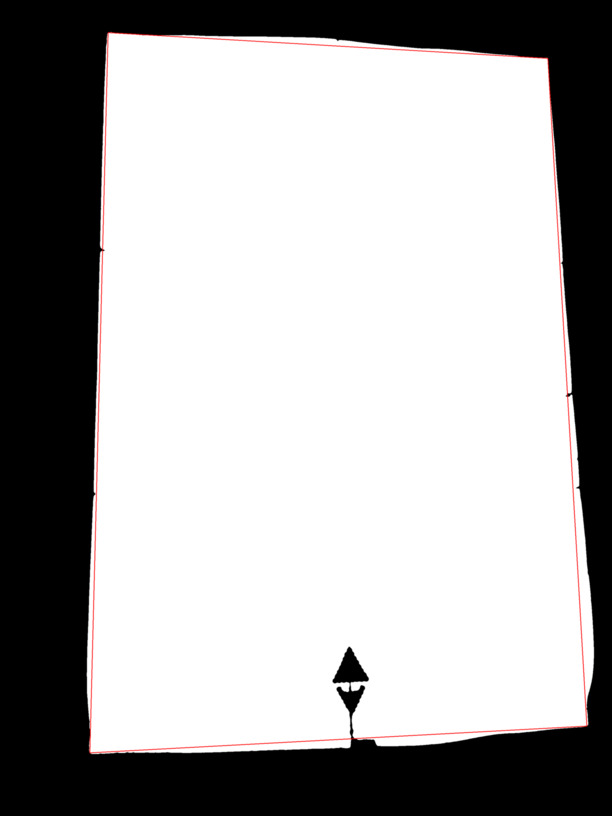
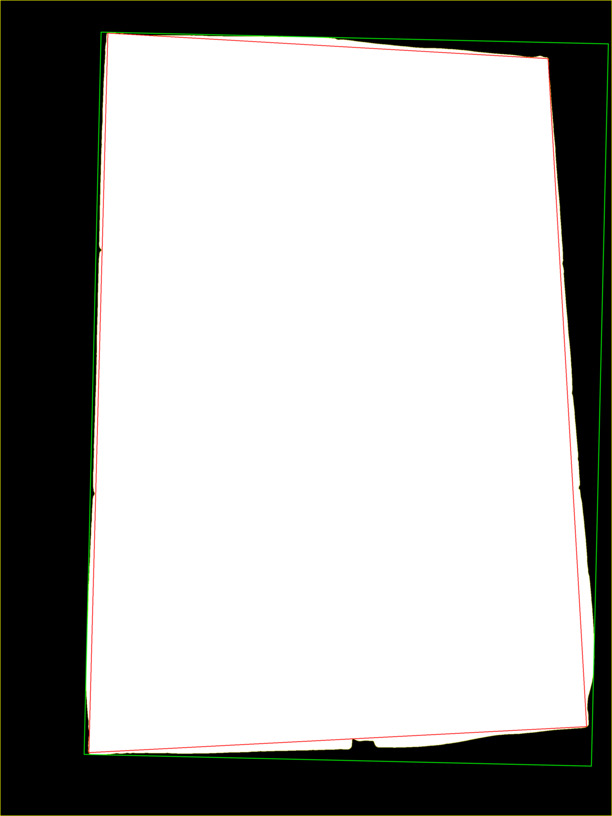
1563959367

diff --git a/main.js b/main.js
@@ -77,13 +77,15 @@ function blur(imgData) {
   return imgData;
 }
 function threshold(imgData) {
+  cv.threshold(imgData, imgData, 1, 255, cv.THRESH_OTSU); //use Otsu Algorithm to determine the optimal threshold value
+  return imgData;
+}
+function clahe_equalize(imgData) {
   cv.cvtColor(imgData, imgData, cv.COLOR_RGBA2GRAY, 0);
   let dst = new cv.Mat();
   let tileGridSize = new cv.Size(8, 8);
   let clahe = new cv.CLAHE(5, tileGridSize);
   clahe.apply(imgData, dst);
-  output(dst);
-  cv.threshold(dst, dst, 1, 255, cv.THRESH_OTSU); //use Otsu Algorithm to determine the optimal threshold value
   return dst;
 }
 function outer_edges(imgInput) {
@@ -96,6 +98,11 @@ function outer_edges(imgInput) {
   console.time(time);
   let src = cv.imread(imgInput);
   let dst = cv.Mat.zeros(src.rows, src.cols, cv.CV_8UC3);
+  //CLAHE EQUALIZATION
+  src = clahe_equalize(src);
+  output(src);
+  console.log("CLAHE done");
+  console.timeLog(time);
   //BLURRING
   src = blur(src);
   output(src);

diff --git a/README.md b/README.md
@@ -52,17 +52,21 @@ Image originale :
 
 ![Img_example](examples/clahe.jpg "CLAHE equalization")
 
+Flou, pour adoucir le rendu de l'étape suivante :
+
+![Img_example](examples/blur.jpg "Flou")
+
 On applique un seuil, déterminé par l'algorithme d'Otsu :
 
-![Img_example](examples/tresh.jpg "image binarisée")
+![Img_example](examples/threshold.jpg "image binarisée")
 
 Détections de contours :
 
-![Img_example](examples/canny.jpg "contours détectés")
+![Img_example](examples/contours.jpg "contours détectés")
 
 Isolation du plus grand contour :
 
-![Img_example](examples/contour.jpg "contour extérieur isolé")
+![Img_example](examples/largest_contour.jpg "contour extérieur isolé")
 
 Algorithme de Ramer–Douglas–Peucker : (polygone rouge)
 
